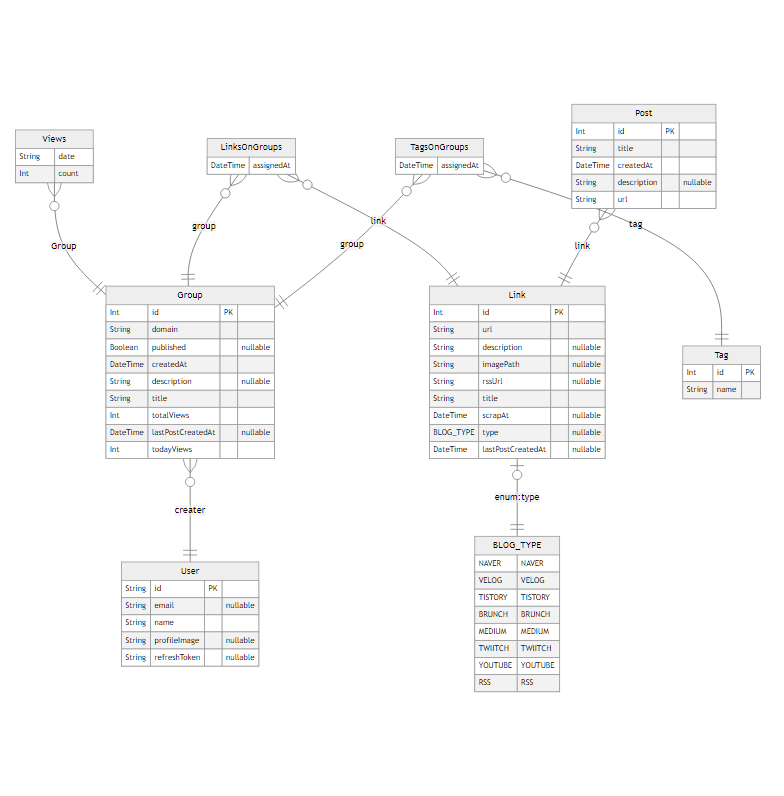
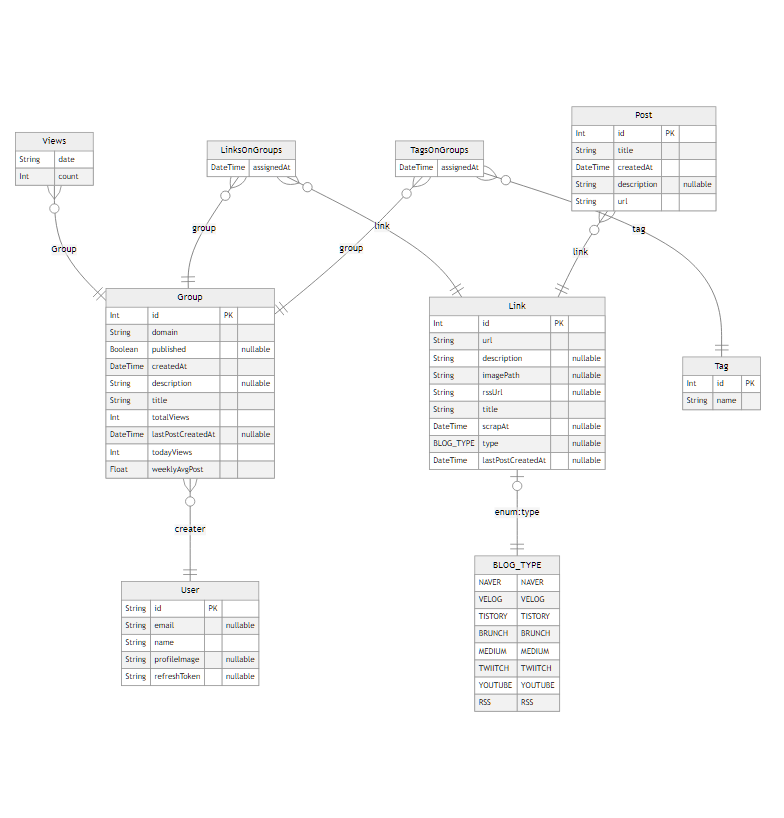
많이 작업했어요

diff --git a/client/src/layouts/MainLayout.vue b/client/src/layouts/MainLayout.vue
@@ -3,17 +3,21 @@ import { useQuasar } from 'quasar';
 import { storeToRefs } from 'pinia';
 import { ref, watch, onMounted } from 'vue';
 import { useUserStore } from '@/stores/user';
-import { useRoute } from 'vue-router';
+import { useRoute, useRouter } from 'vue-router';
 import MainHeader from '@/components/Menu/MainHeader.vue';
+import { MainTabType } from '@/types/common';
 
 const $q = useQuasar();
 const isDarkActive = ref($q.dark.isActive);
 const userStore = useUserStore();
 const { isExistsUser, profileImage, mainTab } = storeToRefs(userStore);
+const { handleSwipeMainTab } = userStore;
 const { fetchUser } = userStore;
 const route = useRoute();
+const router = useRouter();
 
 const emits = defineEmits<{ (eventName: 'pull2refresh', done: () => void): void }>();
+const tabArr = ['Team', 'Blog', 'Post', 'Noti', 'My'];
 
 onMounted(() => {
   fetchUser();
@@ -26,11 +30,18 @@ watch(
 
 const isInTeam = () => String(route.name).includes('GroupDetail');
 const scrollAreaRef = ref();
+const _handleSwipe = (newInfo: { direction: 'left' | 'right' }) => {
+  const mainTabType = `t_${tabArr.findIndex((v) => v === route.name) || 0}` as MainTabType;
+  handleSwipeMainTab(newInfo.direction, mainTabType);
+};
 
 watch(
   () => mainTab.value,
   (mainTab) => {
-    if (+mainTab.replace('t_', '') % 5 === 0) return; //5의배수??
+    const idx = +mainTab.replace('t_', '');
+    const name = tabArr[idx] || 'Team';
+    router.push({ name, replace: true });
+    if (idx % 5 === 0) return; //5의배수??
     scrollAreaRef.value.setScrollPosition('vertical', 0);
   },
 );
@@ -63,7 +74,7 @@ watch(
       </div>
       <q-layout style="min-height: 0">
         <q-page-container style="min-height: 0; padding: 0">
-          <q-page>
+          <q-page v-touch-swipe.mouse.left.right="_handleSwipe">
             <q-pull-to-refresh @refresh="(done: () => void) => emits('pull2refresh', done)">
               <slot></slot>
             </q-pull-to-refresh>
@@ -82,6 +93,5 @@ watch(
 <style lang="scss">
 .q-tab--active {
   color: $green-5;
-  scale: 1.1;
 }
 </style>

diff --git a/client/src/App.vue b/client/src/App.vue
@@ -5,6 +5,9 @@ import { ref, watch, onMounted } from 'vue';
 import { showBottomSheet } from '@/hooks/useInstallBottomSheeet';
 import { useSubpageStore } from '@/stores/subpage';
 import SettingSubpage from './components/Setting/SettingSubpage.vue';
+import DataSubpage from './components/Setting/DataSubpage.vue';
+import GroupEditor from './components/Editor/GroupEditor.vue';
+import LinkEditor from './components/Editor/LinkEditor.vue';
 
 const $q = useQuasar();
 const isDarkActive = ref($q.dark.isActive);
@@ -32,19 +35,15 @@ onMounted(() => {
   <div :class="`max-width ${isDarkActive ? 'bg-grey-9' : 'bg-white'}`">
     <q-layout style="min-height: 0">
       <div id="subpage">
-        <transition-group name="subpage">
-          <GroupEditor v-if="isOpenGroupEditor" />
-          <LinkEditor v-if="isOpenLinkEditor" />
-          <SettingSubpage v-if="isOpenSettingSubpage" />
-          <DataSubpage v-if="isOpenDataSubpage" />
-        </transition-group>
+        <GroupEditor v-if="isOpenGroupEditor" />
+        <LinkEditor v-if="isOpenLinkEditor" />
+        <SettingSubpage v-if="isOpenSettingSubpage" />
+        <DataSubpage v-if="isOpenDataSubpage" />
       </div>
       <router-view v-slot="{ Component }">
-        <transition>
-          <keep-alive include="Team">
-            <component :is="Component" />
-          </keep-alive>
-        </transition>
+        <keep-alive include="Team">
+          <component :is="Component" />
+        </keep-alive>
       </router-view>
     </q-layout>
   </div>

diff --git a/client/src/router/index.ts b/client/src/router/index.ts
@@ -31,28 +31,28 @@ export const routes = [
         name: 'My',
         component: () => import('@/views/MyPage/MyPage.vue'),
       },
+    ],
+  },
+  {
+    path: '/@:domain',
+    name: 'GroupDetail',
+    props: true,
+    component: () => import('@/views/GroupDetail/GroupDetail.vue'),
+    children: [
       {
-        path: '/@:domain',
-        name: 'GroupDetail',
-        props: true,
-        component: () => import('@/views/GroupDetail/GroupDetail.vue'),
-        children: [
-          {
-            path: 'blogs',
-            name: 'GroupDetailLink',
-            component: () => import('@/views/GroupDetailLink/GroupDetailLink.vue'),
-          },
-          {
-            path: '',
-            name: 'GroupDetailPost',
-            component: () => import('@/views/GroupDetailPost/GroupDetailPost.vue'),
-          },
-          {
-            path: 'stats',
-            name: 'GroupDetailStat',
-            component: () => import('@/views/GroupDetailStat/GroupDetailStat.vue'),
-          },
-        ],
+        path: 'blogs',
+        name: 'GroupDetailLink',
+        component: () => import('@/views/GroupDetailLink/GroupDetailLink.vue'),
+      },
+      {
+        path: '',
+        name: 'GroupDetailPost',
+        component: () => import('@/views/GroupDetailPost/GroupDetailPost.vue'),
+      },
+      {
+        path: 'stats',
+        name: 'GroupDetailStat',
+        component: () => import('@/views/GroupDetailStat/GroupDetailStat.vue'),
       },
     ],
   },

diff --git a/client/src/stores/user.ts b/client/src/stores/user.ts
@@ -1,14 +1,16 @@
+import { MainTabType } from '@/types/common';
 import { defineStore } from 'pinia';
 
 import UserApi from '../api/userApi';
 
 export const useUserStore = defineStore('user', {
   state: () => ({
+    userLoading: false,
     id: '',
     email: '',
     name: '',
     profileImage: '',
-    mainTab: '',
+    mainTab: '' as MainTabType,
     isSearchMode: false,
     searchWord: '',
   }),
@@ -21,7 +23,9 @@ export const useUserStore = defineStore('user', {
       this.searchWord = '';
     },
     async fetchUser() {
+      this.userLoading = true;
       const { data: user } = await UserApi.findUser();
+      this.userLoading = false;
       this.id = user.value.id;
       this.email = user.value.email;
       this.name = user.value.name;
@@ -33,6 +37,17 @@ export const useUserStore = defineStore('user', {
       if (!this.isSearchMode) {
         this.searchWord = '';
       }
+    },
+    handleSwipeMainTab(direction: 'left' | 'right', currentTab: MainTabType) {
+      const tabs = [`t_0`, `t_1`, `t_2`, 't_3', 't_4'];
+      const idx = tabs.indexOf(currentTab);
+      let nextTab;
+      if (direction === 'left') {
+        nextTab = tabs[(idx + 1) % tabs.length];
+      } else if (direction === 'right') {
+        nextTab = tabs[(idx + tabs.length - 1) % tabs.length];
+      }
+      this.mainTab = nextTab as MainTabType;
     },
   },
 });

diff --git a/client/src/views/TeamPage/components/TeamListItem.vue b/client/src/views/TeamPage/components/TeamListItem.vue
@@ -44,13 +44,21 @@ const clickGroup = (domain: string) => router.push({ path: `/@${domain}` });
         <q-item-label class="text-grey-5">
           {{ getFormatString(group.lastPostCreatedAt, 'YYYY-MM-DD HH:mm (ddd)') }}
         </q-item-label>
-        <q-item-label class="text-grey-5">
-          <q-chip square outline dense color="dark" class="views q-mr-xs" :label="'today ' + group.todayViews" />
+        <q-item-label class="text-grey-5 q-pt-xs">
           <q-chip
             square
             outline
             dense
             color="green-4"
+            class="views q-mr-xs"
+            :label="'주간 게시물 ' + group.weeklyAvgPost + '개'"
+          />
+          <q-chip square outline dense color="green-3" class="views q-mr-xs" :label="'today ' + group.todayViews" />
+          <q-chip
+            square
+            outline
+            dense
+            color="green-2"
             class="views"
             :label="'total ' + ((group.totalViews || 0) + (group.todayViews || 0))"
           />
@@ -58,7 +66,7 @@ const clickGroup = (domain: string) => router.push({ path: `/@${domain}` });
       </q-item-section>
     </q-item>
   </q-item-label>
-  <q-separator spaced />
+  <q-separator spaced style="height: 8px" />
 </template>
 <style scope>
 .views {

diff --git a/client/src/views/MyPage/components/LoginPage.vue b/client/src/views/MyPage/components/LoginPage.vue
@@ -1,13 +1,10 @@
 <script setup lang="ts">
-import { inject } from 'vue';
-import { VueCookies } from 'vue-cookies';
 import { useQuasar, QSpinnerIos } from 'quasar';
 
 import { delay } from '@/util/CommUtil';
 import ApiArr from '@/data/login-api.json';
 
 const $q = useQuasar();
-const $cookies = inject<VueCookies>('$cookies');
 const logo = new URL(`../../assets/dark_logo.png`, import.meta.url).toString();
 
 const tryLogin = (e: MouseEvent, id: string) => {
@@ -22,10 +19,10 @@ const tryLogin = (e: MouseEvent, id: string) => {
     });
     const w = window.open('/api/auth/kakao', 'kakao');
     const iv = setInterval(async () => {
-      if (!$cookies?.get('access-token') && !w?.closed) return;
+      if (!w?.closed) return;
+      $q.loading.hide();
       $q.notify({ type: 'success', message: '로그인 성공' });
       await delay(500);
-      $q.loading.hide();
       clearInterval(iv);
       location.reload();
     }, 1000);

diff --git a/client/src/stores/tag.ts b/client/src/stores/tag.ts
@@ -11,6 +11,7 @@ export const useTagStore = defineStore('tag', {
     tagsLoading: true,
     tags: [] as Tag[],
     currentTag: totalTag,
+    teamTags: [] as Tag[],
   }),
   getters: {
     isTotalTag: (state) => state.currentTag === totalTag,
@@ -24,8 +25,10 @@ export const useTagStore = defineStore('tag', {
       const plusAll = (tags: Tag[]) => [{ id: totalTag, name: totalTag }, ...tags];
       switch (name) {
         case 'Team':
+          this.tags = this.teamTags;
           const { data } = await GroupApi.findAllTag();
           this.tags = plusAll(data.value);
+          this.teamTags = this.tags;
           break;
         case 'Blog':
           this.tags = plusAll(BLOG_TAG.map((v) => ({ id: v.type, name: v.type })));

diff --git a/src/group/group.service.ts b/src/group/group.service.ts
@@ -68,6 +68,14 @@ export class GroupService {
     });
   }
 
+  async updateTodayViews() {
+    const date = getToday8();
+    await this.prisma.group.updateMany({
+      data: { todayViews: 0 },
+      where: { counts: { none: { date } }, todayViews: { not: 0 } },
+    });
+  }
+
   async groups(params: {
     skip?: number;
     take?: number;
@@ -76,7 +84,7 @@ export class GroupService {
     orderBy?: Prisma.GroupOrderByWithRelationInput;
   }): Promise<Group[]> {
     const { skip, take, cursor, where, orderBy } = params;
-    return this.prisma.group.findMany({
+    return await this.prisma.group.findMany({
       include: {
         links: {
           select: { link: true },

diff --git a/client/src/types/common.ts b/client/src/types/common.ts
@@ -28,6 +28,7 @@ export type Group = {
   todayViews?: number;
   totalViews?: number;
   lastPostCreatedAt?: Date;
+  weeklyAvgPost?: number;
 };
 export type GroupTag = {
   index: number;
@@ -109,5 +110,6 @@ export type StackJson = {
 export type OrderType = 1 | -1;
 export type BlogType = string & ('BRUNCH' | 'MEDIUM' | 'NAVER' | 'TISTORY' | 'VELOG' | 'TWIITCH' | 'RSS' | '');
 export type TabType = string & ('GroupDetailLink' | 'GroupDetailPost' | 'GroupDetailStat');
+export type MainTabType = string & (`t_0` | `t_1` | `t_2` | 't_3' | 't_4');
 export type OrderOption = { label: string; value: string; order: OrderType };
 export type linkCount = { linkId: number; count: number };

diff --git a/client/src/views/GroupDetail/GroupDetail.vue b/client/src/views/GroupDetail/GroupDetail.vue
@@ -3,7 +3,6 @@ import { onMounted, computed } from 'vue';
 import { storeToRefs } from 'pinia';
 import { useGroupStore } from '@/stores/group';
 import { usePostStore } from '@/stores/post';
-import DefaultLayout from '@/layouts/DefaultLayout.vue';
 import GroupDetailTab from './components/GroupDetailTab.vue';
 import GroupDetailTop from './components/GroupDetailTop.vue';
 import InTeamLayout from '@/layouts/InTeamLayout.vue';
@@ -30,7 +29,9 @@ const fetchData = async () => {
   await scrapPosts(links, true, groupId);
 };
 
-onMounted(fetchData);
+onMounted(() => {
+  fetchData();
+});
 
 const refresh = async (done: () => void) => {
   await scrapPostsAndAction();

diff --git a/client/src/views/MyPage/MyPage.vue b/client/src/views/MyPage/MyPage.vue
@@ -5,12 +5,13 @@ import { useUserStore } from '@/stores/user';
 import LoginPage from './components/LoginPage.vue';
 import MyInnerPage from './components/MyInnerPage.vue';
 const userStore = useUserStore();
-const { isExistsUser, profileImage, name, email } = storeToRefs(userStore);
+const { userLoading, isExistsUser, profileImage, name, email } = storeToRefs(userStore);
 </script>
 
 <template>
   <q-page class="q-mt-sm">
-    <template v-if="isExistsUser">
+    <template v-if="userLoading"></template>
+    <template v-else-if="isExistsUser">
       <MyInnerPage :name="name" :email="email" :profile-image="profileImage" />
     </template>
     <template v-else>

diff --git a/client/src/components/Setting/DataCard.vue b/client/src/components/Setting/DataCard.vue
@@ -1,11 +1,11 @@
 <script setup lang="ts">
-import { toRefs } from 'vue';
+import { toRaw } from 'vue';
 
 import { getImage } from '@/util/ImageUtil';
 import { StackJson } from '@/types/common';
 
 const props = defineProps<{ stackJson: StackJson }>();
-const { label, version, description, path, url, githubStar } = toRefs(props.stackJson);
+const { label, version, description, path, url, githubStar } = toRaw(props.stackJson);
 const openUrl = (url: string) => window.open(url, 'stack');
 </script>
 
